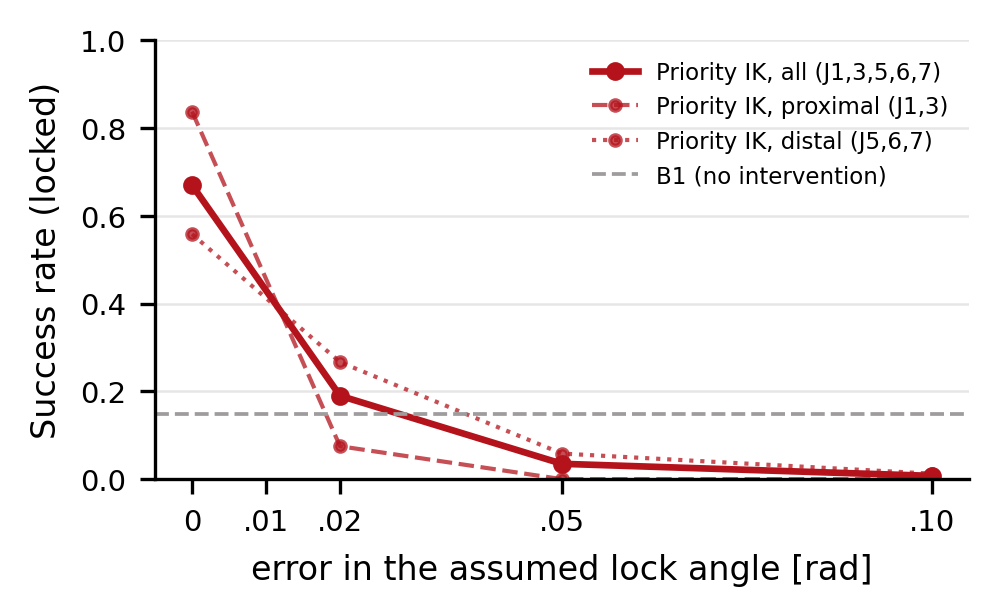
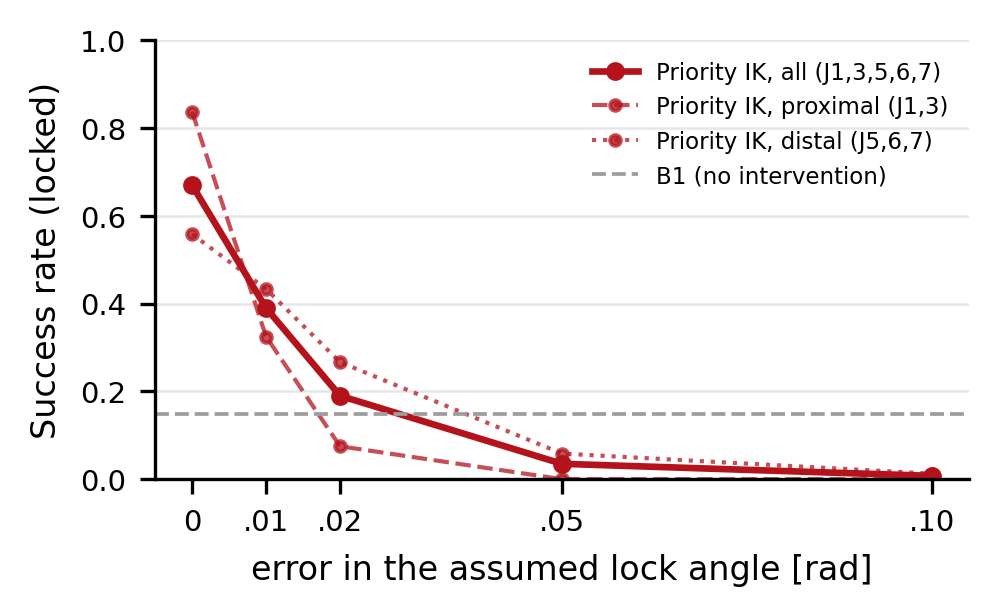
Final paper figures/tables: RG-DDPM moderate complete, lock-angle sensitivity with 0.01 rad

Changed region(s): [[0.1864, 0.2159, 0.3417, 0.7094], [0.3417, 0.7094, 0.3727, 0.7403]]

diff --git a/paper/tables/tab_paired.tex b/paper/tables/tab_paired.tex
@@ -8,10 +8,10 @@
 Fault level & vs B1 & vs E-C-I & vs RG-DDPM & vs B-IK pos & vs B-IK pose & vs Oracle$^\dagger$ \\
 \midrule
 mild & 75:52 (0.050) & 81:80 (1.00) & -- & 30:59 (0.003) & 50:50 (1.00) & 23:64 ($1.3\times10^{-5}$) \\
-moderate & \textbf{156:32 ($8.8\times10^{-21}$)} & \textbf{161:49 ($4.0\times10^{-15}$)} & \textbf{68:43 (0.022)} & \textbf{80:49 (0.008)} & \textbf{107:29 ($1.1\times10^{-11}$)} & 49:52 (0.84) \\
+moderate & \textbf{156:32 ($8.8\times10^{-21}$)} & \textbf{161:49 ($4.0\times10^{-15}$)} & \textbf{79:45 (0.003)} & \textbf{80:49 (0.008)} & \textbf{107:29 ($1.1\times10^{-11}$)} & 49:52 (0.84) \\
 severe & \textbf{192:24 ($9.9\times10^{-34}$)} & \textbf{190:43 ($3.1\times10^{-23}$)} & -- & \textbf{115:44 ($1.7\times10^{-8}$)} & \textbf{131:27 ($1.4\times10^{-17}$)} & 70:49 (0.066) \\
 locked & \textbf{223:14 ($1.3\times10^{-49}$)} & \textbf{193:30 ($2.4\times10^{-30}$)} & \textbf{124:30 ($8.9\times10^{-15}$)} & \textbf{148:47 ($2.3\times10^{-13}$)} & \textbf{120:31 ($1.5\times10^{-13}$)} & \textbf{89:60 (0.021)} \\
-all & \textbf{646:122 ($6.4\times10^{-87}$)} & \textbf{625:202 ($5.0\times10^{-51}$)} & \textbf{192:73 ($1.6\times10^{-13}$)} & \textbf{373:199 ($3.1\times10^{-13}$)} & \textbf{408:137 ($2.9\times10^{-32}$)} & 231:225 (0.81) \\
+all & \textbf{646:122 ($6.4\times10^{-87}$)} & \textbf{625:202 ($5.0\times10^{-51}$)} & \textbf{203:75 ($8.6\times10^{-15}$)} & \textbf{373:199 ($3.1\times10^{-13}$)} & \textbf{408:137 ($2.9\times10^{-32}$)} & 231:225 (0.81) \\
 \bottomrule
 \end{tabular}
 \end{table}

diff --git a/paper/tables/tab_main.tex b/paper/tables/tab_main.tex
@@ -8,7 +8,7 @@
 Fault level & B1 & Rand-N & Select & E-C-I & RG-DDPM & B-IK pos & B-IK pose & \textbf{Prio-IK} & Oracle$^\dagger$ \\
 \midrule
 mild & 0.66 & 0.64 & -- & 0.70 & -- & \textbf{0.75} & 0.70 & 0.70 & 0.77 \\
-moderate & 0.42 & 0.39 & 0.42 & 0.44 & 0.57$^{(25)}$ & 0.59 & 0.51 & \textbf{0.64} & 0.65 \\
+moderate & 0.42 & 0.39 & 0.42 & 0.44 & 0.58 & 0.59 & 0.51 & \textbf{0.64} & 0.65 \\
 severe & 0.28 & 0.26 & -- & 0.31 & -- & 0.45 & 0.39 & \textbf{0.58} & 0.54 \\
 locked & 0.11 & 0.12 & 0.16 & 0.19 & 0.31 & 0.30 & 0.32 & \textbf{0.48} & 0.43 \\
 all (112) & 0.37 & 0.35 & -- & 0.41 & -- & 0.52 & 0.48 & 0.60 & 0.60 \\

diff --git a/paper/tables/tab_misspec.tex b/paper/tables/tab_misspec.tex
@@ -9,6 +9,7 @@ Misspecification & Level & Cond. & Exact & Misspec. & $\Delta$ & paired (misspec
 \midrule
 window $\times$0.5 & moderate & 20 & 0.82 & 0.79 & -0.03 & 27:40 (0.14) \\
 window $\times$1.5 & moderate & 20 & 0.82 & 0.55 & -0.27 & 23:132 ($8.8\times10^{-20}$) \\
+lock +0.01 rad & locked & 20 & 0.67 & 0.39 & -0.28 & 25:137 ($6.6\times10^{-20}$) \\
 lock +0.02 rad & locked & 20 & 0.67 & 0.19 & -0.48 & 10:202 ($1.3\times10^{-47}$) \\
 lock +0.05 rad & locked & 20 & 0.67 & 0.03 & -0.64 & 6:260 ($8.0\times10^{-69}$) \\
 lock +0.1 rad & locked & 20 & 0.67 & 0.01 & -0.66 & 0:265 ($3.4\times10^{-80}$) \\
